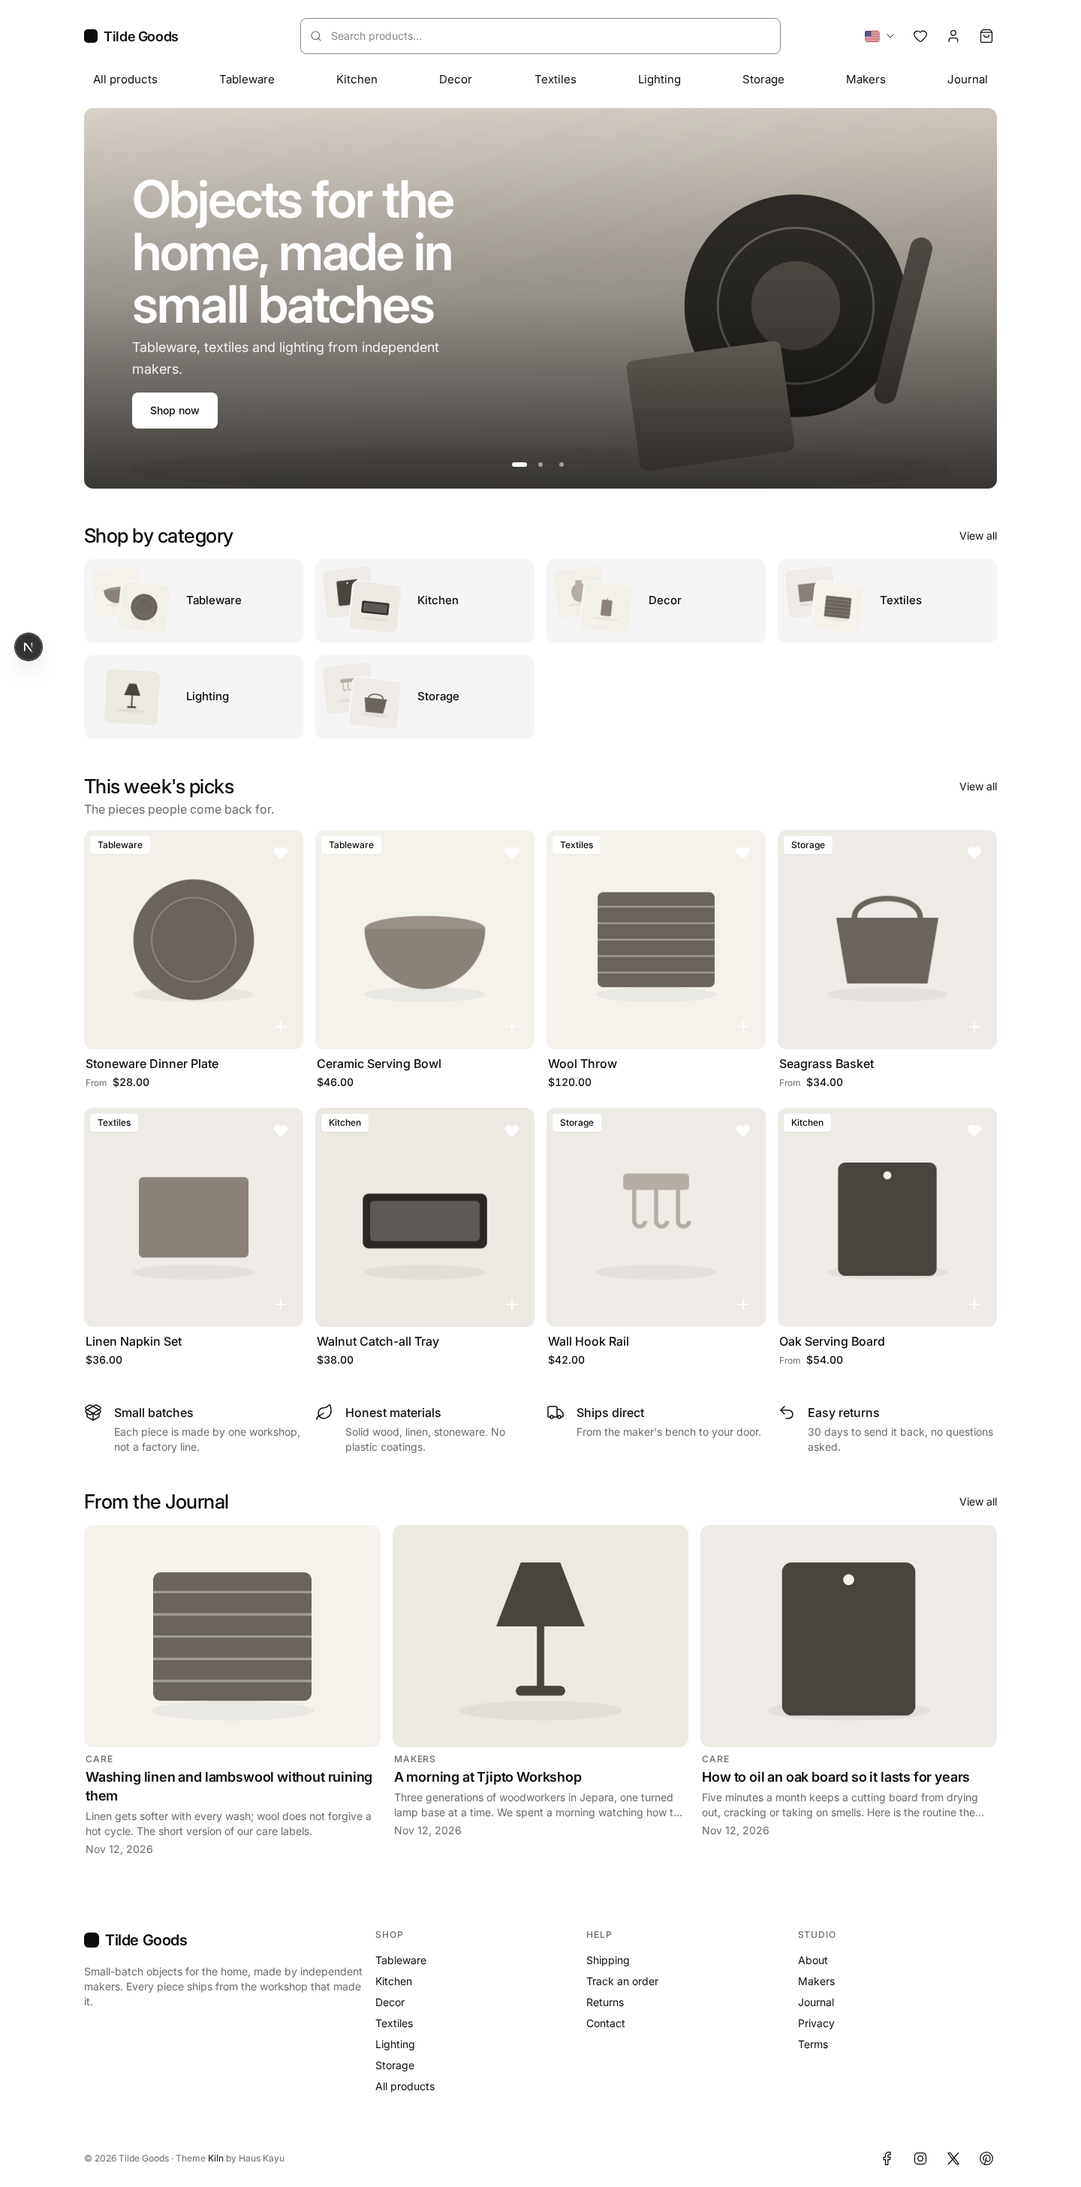
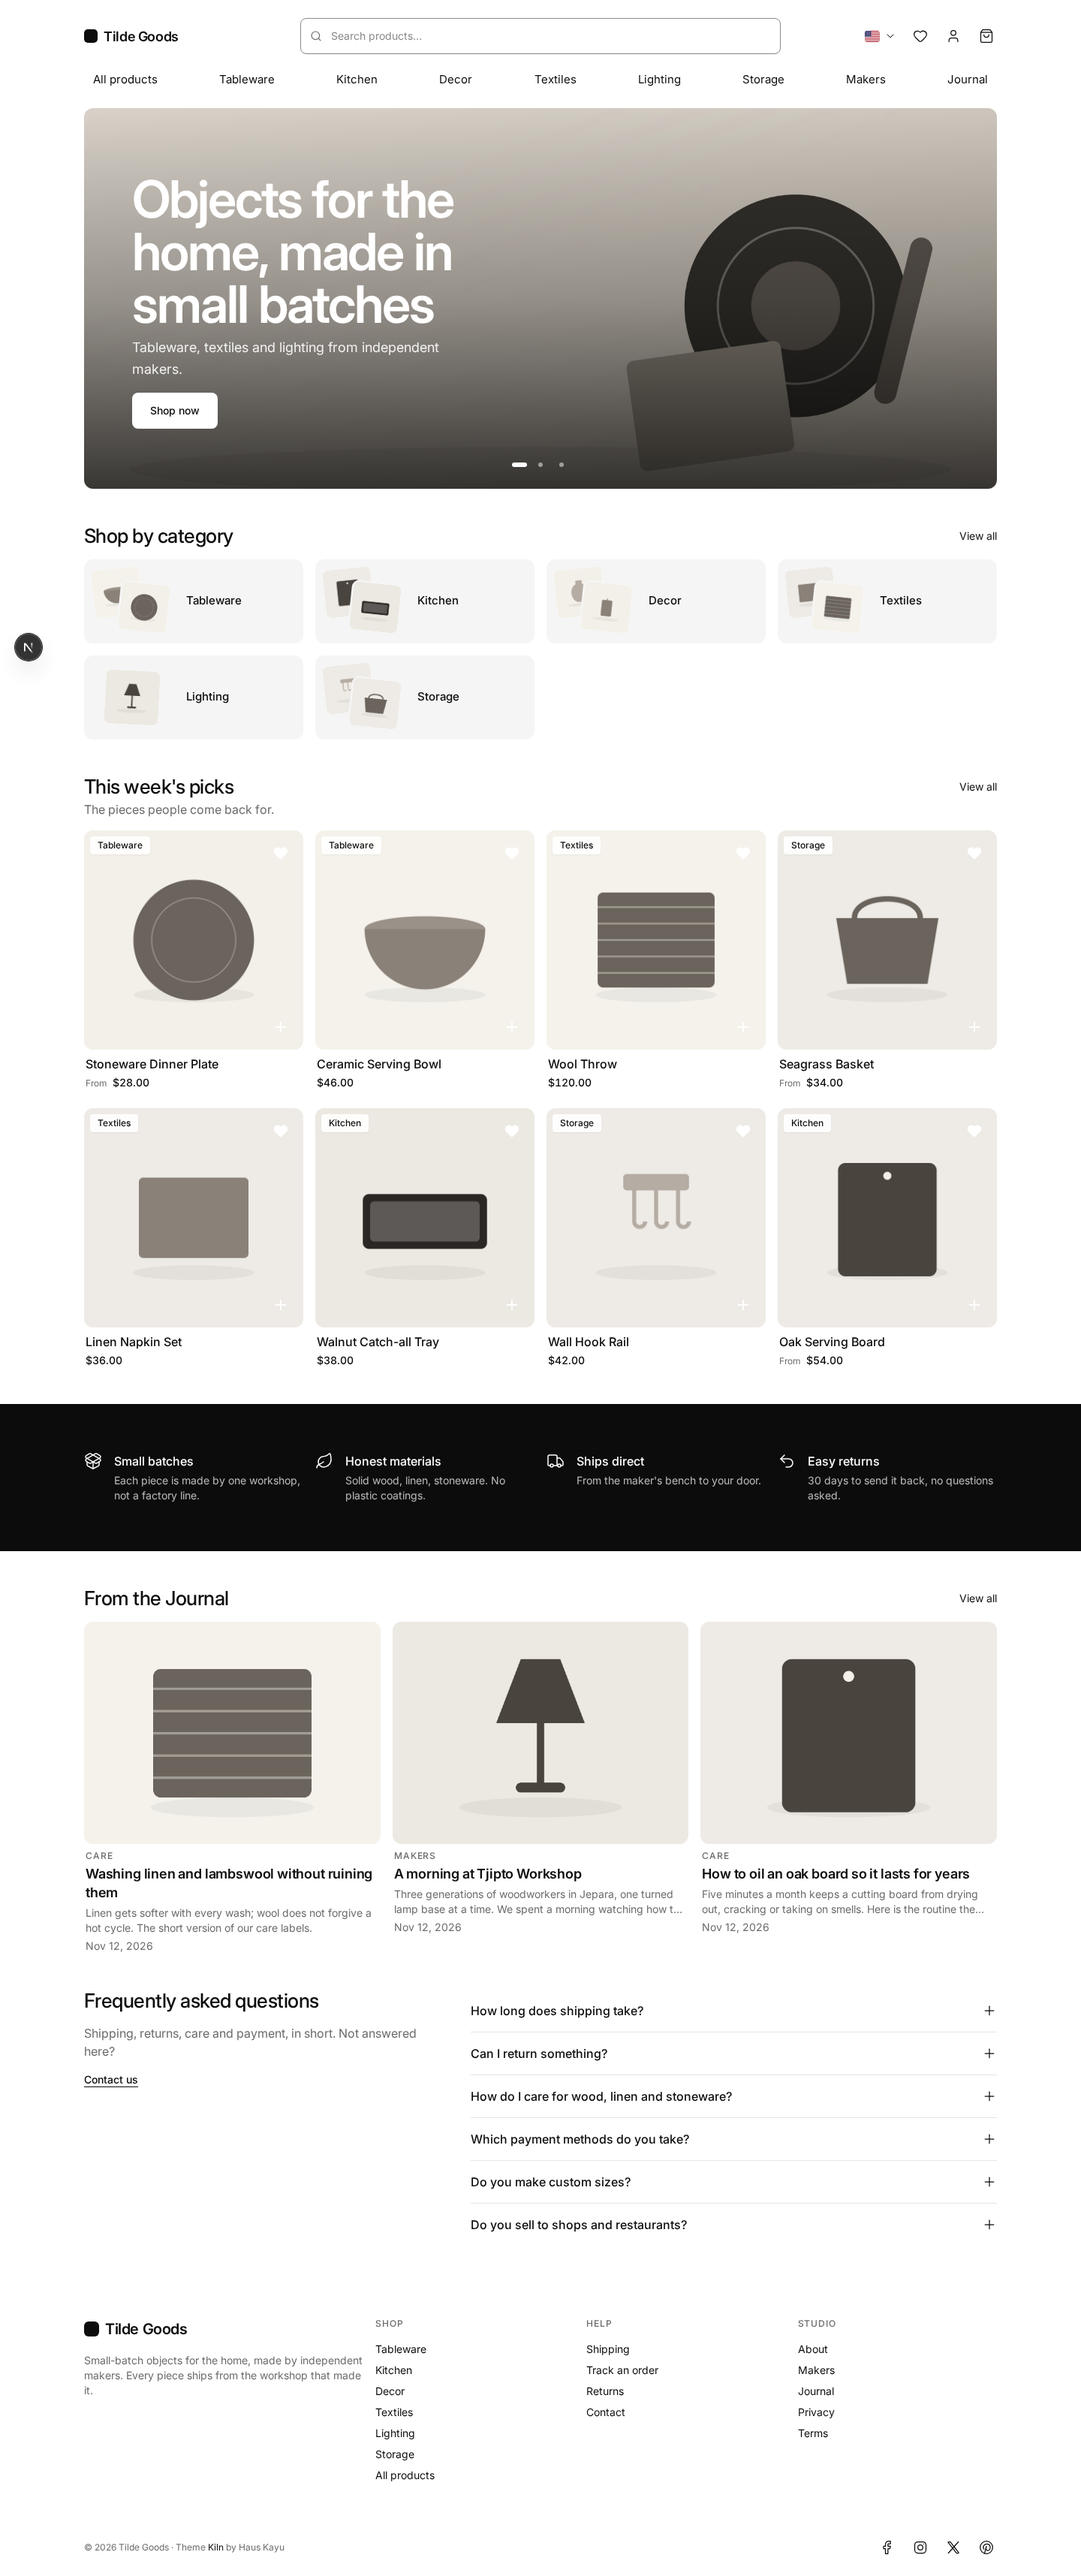
home: ink value-props band and FAQ section
- value props: full-bleed #0C0C0C band, white titles/icons, body at 70% white, 64px / 40px vertical
  padding, 2 × 2 on phones and tablets
- FAQ under the journal: title + intro + "Contact us" left, native details/summary accordion right
  (one column on phones), Plus/Minus, ::details-content slide (none with reduced motion), hairlines
  between items only; 6 questions per language in theme.config.ts (faq.items), hidden when empty;
  FAQPage JSON-LD through <JsonLd> (SITE_LIVE)
- /design: FAQ accordion and ink band blocks; screenshots refreshed

diff --git a/theme.config.ts b/theme.config.ts
@@ -225,6 +225,39 @@ const config = {
     ] as HeroSlideConfig[],
   },
 
+  /**
+   * Home page FAQ (and FAQPage JSON-LD): questions and answers per language. Plain text answers.
+   * An empty list hides the section.
+   */
+  faq: {
+    items: [
+      {
+        q: { en: "How long does shipping take?", id: "Berapa lama pengirimannya?" },
+        a: { en: "Orders leave the workshop within 2 working days. In the United States most parcels arrive in 3–6 working days; in Indonesia in 1–4 days. You get a tracking link by e-mail as soon as the parcel ships.", id: "Pesanan dikirim dari bengkel dalam 2 hari kerja. Di Indonesia paket biasanya sampai dalam 1–4 hari, di Amerika Serikat 3–6 hari kerja. Nomor resi dikirim lewat e-mail begitu paket berangkat." },
+      },
+      {
+        q: { en: "Can I return something?", id: "Bisa dikembalikan?" },
+        a: { en: "Yes: 30 days from delivery, unused and in its packaging. Start a return from your account or write to us; we refund the full price once the parcel is back at the workshop. Custom-sized pieces cannot be returned.", id: "Bisa: 30 hari sejak barang diterima, belum dipakai dan masih dalam kemasan. Ajukan retur dari akun Anda atau hubungi kami; harga penuh dikembalikan setelah paket sampai lagi di bengkel. Barang ukuran custom tidak bisa diretur." },
+      },
+      {
+        q: { en: "How do I care for wood, linen and stoneware?", id: "Bagaimana merawat kayu, linen, dan stoneware?" },
+        a: { en: "Wood: hand wash, dry upright, oil once a month. Linen: machine wash warm, tumble low. Stoneware: dishwasher safe. Every product page has the exact care line for that piece.", id: "Kayu: cuci tangan, keringkan berdiri, minyaki sebulan sekali. Linen: cuci mesin air hangat, pengering suhu rendah. Stoneware: aman di mesin cuci piring. Setiap halaman produk punya petunjuk perawatan untuk barang itu." },
+      },
+      {
+        q: { en: "Which payment methods do you take?", id: "Pembayaran apa saja yang diterima?" },
+        a: { en: "Cards (Visa, Mastercard, American Express), Apple Pay and Google Pay in the United States; QRIS, bank transfer and virtual accounts in Indonesia. Prices include tax; shipping is shown at checkout.", id: "Di Indonesia: QRIS, transfer bank, dan virtual account. Di Amerika Serikat: kartu (Visa, Mastercard, American Express), Apple Pay, dan Google Pay. Harga sudah termasuk pajak; ongkos kirim tampil saat checkout." },
+      },
+      {
+        q: { en: "Do you make custom sizes?", id: "Bisa pesan ukuran custom?" },
+        a: { en: "Most wooden pieces can be made to your measurements. Send the dimensions and a photo of the space through the contact page; the maker replies with a quote within two working days.", id: "Sebagian besar barang kayu bisa dibuat sesuai ukuran Anda. Kirim ukuran dan foto ruangannya lewat halaman kontak; pembuatnya membalas dengan penawaran dalam dua hari kerja." },
+      },
+      {
+        q: { en: "Do you sell to shops and restaurants?", id: "Melayani pembelian untuk toko dan restoran?" },
+        a: { en: "Yes. Orders from 20 pieces get wholesale pricing and a dedicated lead time. Write to us with what you have in mind.", id: "Ya. Pesanan mulai 20 pcs mendapat harga grosir dan jadwal produksi tersendiri. Hubungi kami dengan kebutuhan Anda." },
+      },
+    ] as { q: Localized; a: Localized }[],
+  },
+
   /** Blog URL segment when medusa-blog-seo is installed */
   blogPath: "/blog",
 

diff --git a/src/modules/home/components/faq.tsx b/src/modules/home/components/faq.tsx
@@ -1,0 +1,68 @@
+import { cn } from "@heroui/styles"
+import { Minus, Plus } from "lucide-react"
+
+import config from "@theme"
+import type { Dictionary } from "@lib/i18n/dictionaries"
+import { tx } from "@lib/i18n/localized"
+import { faqPage, JsonLd } from "@lib/seo/jsonld"
+import Link from "@modules/common/components/app-link"
+import { ICON } from "@modules/ds/icons"
+
+export type FaqItem = { q: string; a: string }
+
+/** The FAQ of theme.config.ts (`faq.items`) in one language */
+export const faqItems = (lang: "id" | "en"): FaqItem[] =>
+  config.faq.items.map((f) => ({ q: tx(f.q, lang).trim(), a: tx(f.a, lang).trim() })).filter((f) => f.q && f.a)
+
+/**
+ * Accordion list on native <details>/<summary>: works without JS, keyboard and screen-reader friendly. Plus turns
+ * into Minus when open; the body slides open (::details-content transition in globals.css, none with reduced
+ * motion). Hairlines only between the items.
+ */
+export function FaqList({ items, className }: { items: FaqItem[]; className?: string }) {
+  return (
+    <ul className={cn("divide-y divide-separator", className)} data-testid="faq-list">
+      {items.map((f) => (
+        <li key={f.q}>
+          <details className="k-details group">
+            <summary className="flex min-h-14 cursor-pointer list-none items-center justify-between gap-stack-md py-stack-md text-base font-medium outline-none focus-visible:ring-2 focus-visible:ring-focus [&::-webkit-details-marker]:hidden">
+              {f.q}
+              <span aria-hidden="true" className="relative size-5 shrink-0">
+                <Plus {...ICON} className="absolute inset-0 transition-opacity group-open:opacity-0" />
+                <Minus {...ICON} className="absolute inset-0 opacity-0 transition-opacity group-open:opacity-100" />
+              </span>
+            </summary>
+            <div className="pb-stack-lg text-sm leading-relaxed text-muted sm:text-base">{f.a}</div>
+          </details>
+        </li>
+      ))}
+    </ul>
+  )
+}
+
+/**
+ * Home page FAQ: title + one line + "Contact us" on the left, the accordion on the right (one column on phones),
+ * questions and answers from theme.config.ts per language. Hidden when the list is empty. The FAQPage JSON-LD is
+ * rendered through <JsonLd>, i.e. only with SITE_LIVE=true.
+ */
+export default function Faq({ lang, t, contactHref, url }: { lang: "id" | "en"; t: Dictionary["home"]; contactHref: string; url: string }) {
+  const items = faqItems(lang)
+  if (!items.length) return null
+  return (
+    <section aria-labelledby="faq-title" className="content-container" data-testid="faq">
+      <JsonLd data={faqPage(items, url)} />
+      <div className="grid gap-stack-lg lg:grid-cols-[minmax(0,2fr)_minmax(0,3fr)] lg:gap-section">
+        <div className="flex flex-col gap-stack-md lg:sticky lg:top-36 lg:self-start">
+          <h2 id="faq-title" className="type-h2">
+            {t.faqTitle}
+          </h2>
+          <p className="max-w-md text-sm text-muted sm:text-base">{t.faqIntro}</p>
+          <Link href={contactHref} className="w-fit text-sm font-medium underline underline-offset-4 outline-none hover:no-underline focus-visible:ring-2 focus-visible:ring-focus">
+            {t.faqContact}
+          </Link>
+        </div>
+        <FaqList items={items} />
+      </div>
+    </section>
+  )
+}

diff --git a/src/app/[countryCode]/(main)/design/page.tsx b/src/app/[countryCode]/(main)/design/page.tsx
@@ -10,6 +10,9 @@ import CountBadge from "@modules/layout/components/count-badge"
 import MarketSelect from "@modules/layout/components/market-select"
 import { marketOptions } from "@modules/layout/components/market-select/options"
 import CatalogCard from "@modules/products/components/catalog-card"
+import { FaqList, faqItems } from "@modules/home/components/faq"
+import ValueProps from "@modules/home/components/value-props"
+import { getDictionary } from "@lib/i18n/dictionaries"
 import SheetDemo from "./sheet-demo"
 
 export const metadata: Metadata = { title: "Design tokens", robots: { index: false, follow: false } }
@@ -94,6 +97,18 @@ export default async function DesignPage(props: { params: Promise<{ countryCode:
           <SectionHeader title="This week's picks" description="The pieces people come back for." action={{ label: "View all", href: "#" }} />
           <SectionHeader eyebrow="Journal" title="From the Journal" action={{ label: "View all", href: "#" }} />
         </div>
+      </section>
+
+      <section className="flex flex-col gap-stack-md" aria-labelledby="d-faq">
+        <h2 id="d-faq" className="type-h2">FAQ accordion</h2>
+        <p className="max-w-2xl text-sm text-muted">Native details/summary (no JS), Plus → Minus when open, body slides open (none with reduced motion), hairlines between items only. Content: theme.config.ts faq.items.</p>
+        <FaqList items={faqItems("en").slice(0, 3)} className="max-w-2xl" />
+      </section>
+
+      <section className="flex flex-col gap-stack-md" aria-labelledby="d-band">
+        <h2 id="d-band" className="type-h2">Ink band</h2>
+        <p className="max-w-2xl text-sm text-muted">Full-bleed #0C0C0C band (value props on the home page): white titles and icons, body at 70% white (AA on ink).</p>
+        <div className="-mx-container-x"><ValueProps t={getDictionary("us").home} /></div>
       </section>
 
       <section className="flex flex-col gap-stack-md" aria-labelledby="d-controls">

diff --git a/src/modules/home/components/value-props.tsx b/src/modules/home/components/value-props.tsx
@@ -6,23 +6,27 @@ import { ICON } from "@modules/ds/icons"
 /** One icon per value line, in order (lucide) */
 const icons = [PackageOpen, Leaf, Truck, Undo2]
 
+/**
+ * Value props as a full-bleed ink band (#0C0C0C edge to edge, the content stays in the container): white titles
+ * and icons, light grey body (AA on ink). 2 × 2 on phones and tablets, one row of 4 from lg.
+ */
 export default function ValueProps({ t }: { t: Dictionary["home"] }) {
   return (
-    <section aria-labelledby="values-title" className="content-container">
+    <section aria-labelledby="values-title" className="bg-foreground py-10 text-background md:py-16" data-testid="value-props">
       <h2 id="values-title" className="sr-only">
         {t.valuesTitle}
       </h2>
-      <ul className="grid grid-cols-2 gap-x-gutter gap-y-stack-lg lg:grid-cols-4">
+      <ul className="content-container grid grid-cols-2 gap-x-gutter gap-y-stack-lg lg:grid-cols-4">
         {t.values.map((v, i) => {
           const Icon = icons[i % icons.length]
           return (
-          <li key={v.title} className="flex flex-col gap-stack-sm sm:flex-row sm:gap-stack-md">
-            <Icon {...ICON} size={24} className="shrink-0" />
-            <div className="flex flex-col gap-stack-xs">
-              <h3 className="text-sm font-medium sm:text-base">{v.title}</h3>
-              <p className="text-sm text-muted">{v.body}</p>
-            </div>
-          </li>
+            <li key={v.title} className="flex flex-col gap-stack-sm sm:flex-row sm:gap-stack-md">
+              <Icon {...ICON} size={24} className="shrink-0 text-background" />
+              <div className="flex flex-col gap-stack-xs">
+                <h3 className="text-sm font-medium sm:text-base">{v.title}</h3>
+                <p className="text-sm text-background/70">{v.body}</p>
+              </div>
+            </li>
           )
         })}
       </ul>

diff --git a/src/app/[countryCode]/(main)/page.tsx b/src/app/[countryCode]/(main)/page.tsx
@@ -13,6 +13,7 @@ import { PRODUCT_CARD_FIELDS, toProductCard } from "@lib/util/product-card"
 import { Page, ProductGrid, Section } from "@modules/ds"
 import CatalogCard from "@modules/products/components/catalog-card"
 import CategoryCard from "@modules/home/components/category-card"
+import Faq from "@modules/home/components/faq"
 import Hero from "@modules/home/components/hero"
 import Journal from "@modules/home/components/journal"
 import ValueProps from "@modules/home/components/value-props"
@@ -98,6 +99,8 @@ export default async function Home(props: { params: Promise<{ countryCode: strin
       <ValueProps t={t.home} />
 
       <Journal countryCode={countryCode} t={t.home} href={href(config.blogPath)} />
+
+      <Faq lang={getMarket(countryCode).dictionary} t={t.home} contactHref={href("/contact")} url={`${origin}${marketPath(countryCode)}`} />
     </Page>
   )
 }

diff --git a/src/styles/globals.css b/src/styles/globals.css
@@ -479,6 +479,31 @@ input[type="radio"] {
   }
 }
 
+/*
+ * <details> accordions (FAQ, product page): the body slides open where the browser animates ::details-content
+ * (Chrome 131+, Safari 18.4+); elsewhere it just opens. Nothing moves with reduced motion.
+ */
+.k-details::details-content {
+  block-size: 0;
+  overflow-y: clip;
+  transition:
+    block-size 250ms ease-out,
+    content-visibility 250ms allow-discrete;
+}
+.k-details[open]::details-content {
+  block-size: auto;
+}
+@supports (interpolate-size: allow-keywords) {
+  .k-details {
+    interpolate-size: allow-keywords;
+  }
+}
+@media (prefers-reduced-motion: reduce) {
+  .k-details::details-content {
+    transition: none;
+  }
+}
+
 /* Product card: gentle lift + soft neutral shadow + second photo, 200ms; nothing moves with reduced motion */
 .card-media {
   transition:

diff --git a/src/lib/i18n/dictionaries.ts b/src/lib/i18n/dictionaries.ts
@@ -191,6 +191,9 @@ const id = {
     slider: { region: "Promo", goTo: "Ke slide {n}", slideOf: "Slide {n} dari {total}" },
     journalTitle: "Dari Jurnal",
     seeAll: "Lihat semua",
+    faqTitle: "Pertanyaan umum",
+    faqIntro: "Pengiriman, retur, perawatan, dan pembayaran, singkatnya. Belum terjawab?",
+    faqContact: "Hubungi kami",
   },
   product: {
     home: "Beranda",
@@ -1036,6 +1039,9 @@ const en: Dictionary = {
     slider: { region: "Promotions", goTo: "Go to slide {n}", slideOf: "Slide {n} of {total}" },
     journalTitle: "From the Journal",
     seeAll: "View all",
+    faqTitle: "Frequently asked questions",
+    faqIntro: "Shipping, returns, care and payment, in short. Not answered here?",
+    faqContact: "Contact us",
   },
   product: {
     home: "Home",
